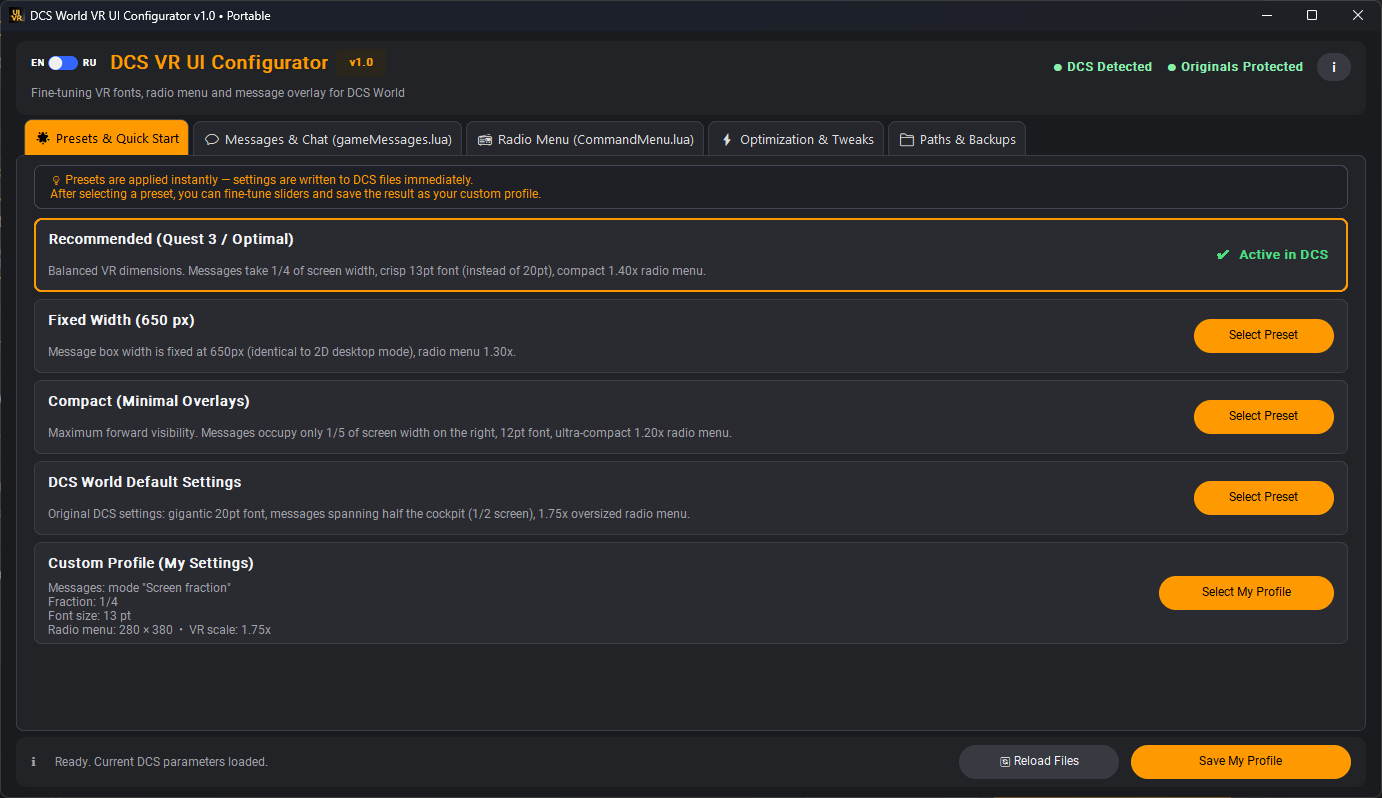
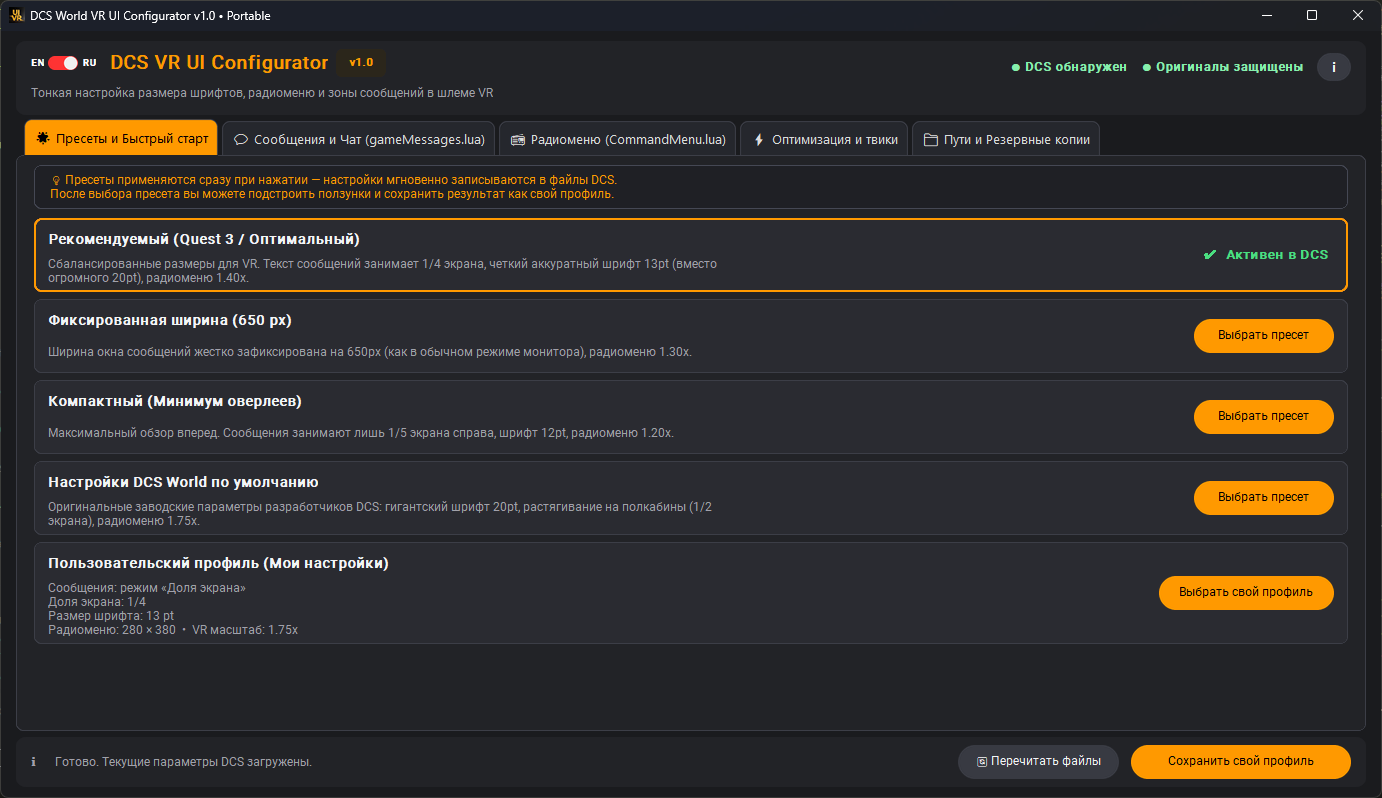
add

diff --git a/README.md b/README.md
@@ -1,6 +1,6 @@
 # DCS World VR UI Configurator
 
-[Русский — перейти к русской версии ↓](https://github.com/Hokum-A/dcs-vr-ui-configurator?tab=readme-ov-file#russian)
+<a href="https://github.com/Hokum-A/dcs-vr-ui-configurator?tab=readme-ov-file#russian"><img src="docs/images/flag-ru.svg" alt="Русский" width="28"></a> [Русский — перейти к русской версии ↓](https://github.com/Hokum-A/dcs-vr-ui-configurator?tab=readme-ov-file#russian)
 
 <a id="english"></a>
 ## English
@@ -19,11 +19,7 @@ The custom profile stores settings from the **Messages & Chat** and **Radio Menu
 
 ## Screenshot
 
-*Screenshot coming soon.*
-
-<!-- Save the English screenshot as docs/images/screenshot-en.png, then replace this note with:
-![DCS VR UI Configurator screenshot](docs/images/screenshot-en.png)
--->
+![DCS VR UI Configurator — English interface](docs/images/screenshot-en.png)
 
 ## Download
 
@@ -78,7 +74,7 @@ This project is licensed under the [MIT License](LICENSE).
 <a id="russian"></a>
 ## Русский
 
-[English — перейти к английской версии ↑](https://github.com/Hokum-A/dcs-vr-ui-configurator?tab=readme-ov-file#english)
+<a href="https://github.com/Hokum-A/dcs-vr-ui-configurator?tab=readme-ov-file#english"><img src="docs/images/flag-uk.svg" alt="English" width="28"></a> [English — перейти к английской версии ↑](https://github.com/Hokum-A/dcs-vr-ui-configurator?tab=readme-ov-file#english)
 
 Программа для Windows, предназначенная для настройки отдельных элементов интерфейса DCS World, в первую очередь в VR. Позволяет менять размеры сообщений и радиоменю, выбирать фоновую VR-сцену главного меню и карты F-10, а также управлять поддерживаемыми параметрами `autoexec.cfg`.
 
@@ -94,11 +90,7 @@ This project is licensed under the [MIT License](LICENSE).
 
 ## Скриншот
 
-*Скриншот будет добавлен.*
-
-<!-- Сохраните русский скриншот как docs/images/screenshot-ru.png, затем замените эту заметку строкой:
-![Скриншот DCS VR UI Configurator](docs/images/screenshot-ru.png)
--->
+![DCS VR UI Configurator — интерфейс на русском языке](docs/images/screenshot-ru.png)
 
 ## Скачать
 
